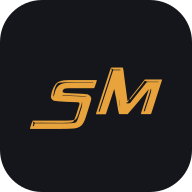
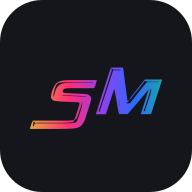
StageMate v0.6.14 · Build 93
Claude-Session: https://claude.ai/code/session_01G3z7oRcgy9Gda5m4Ku4fjU

Changed region(s): [[0.1875, 0.3438, 0.8438, 0.6875]]

diff --git a/index.html b/index.html
@@ -1,18 +1,18 @@
 <!DOCTYPE html>
-<!-- StageMate v0.6.13 · Build 92 · 2026-11-27 -->
+<!-- StageMate v0.6.14 · Build 93 · 2026-11-27 -->
 <html lang="de">
 <head>
 <meta charset="UTF-8">
 <meta name="viewport" content="width=device-width, initial-scale=1">
-<title>StageMate v0.6.13</title>
-<link rel="icon" type="image/svg+xml" href="icon.svg?sm2">
-<link rel="icon" type="image/png" sizes="32x32" href="icon-32.png?sm2">
-<link rel="apple-touch-icon" href="icon-180.png?sm2">
+<title>StageMate v0.6.14</title>
+<link rel="icon" type="image/svg+xml" href="icon.svg?sm3">
+<link rel="icon" type="image/png" sizes="32x32" href="icon-32.png?sm3">
+<link rel="apple-touch-icon" href="icon-180.png?sm3">
 <link rel="manifest" href="manifest.webmanifest">
 <meta name="theme-color" content="#15161c">
 <link rel="preconnect" href="https://fonts.googleapis.com">
 <link href="https://fonts.googleapis.com/css2?family=Inter:wght@400;500;600;700&display=swap" rel="stylesheet">
-<link rel="stylesheet" href="app.css?v0.6.13">
+<link rel="stylesheet" href="app.css?v0.6.14">
 <script>
   (function () {
     var t = 'system';
@@ -26,8 +26,9 @@
 
 <template id="logoTpl">
   <svg viewBox="0 0 512 512" aria-label="StageMate-Logo (SM)">
-    <rect width="512" height="512" rx="128" fill="#e8a33d"/>
-    <path fill="#15161c" transform="translate(-28.921,-314.354) scale(9.17031)" d="M 31.1846 57.5554 Q 31.2466 57.5554 31.3138 57.7311 Q 30.6472 59.8344 30.5697 59.8344 Q 30.4250 59.9222 30.3061 59.9222 L 23.6399 59.9222 Q 21.6245 59.9222 21.6245 60.3201 Q 21.3610 60.5113 21.3610 60.8885 Q 21.3610 61.3691 22.9371 61.3691 Q 28.8127 61.5603 28.8127 61.8084 Q 29.6912 62.2476 29.6912 63.0796 Q 29.6912 63.4259 28.2029 68.0354 Q 27.6345 69.9939 26.7973 70.8001 Q 25.8155 71.6786 23.9913 71.6786 Q 22.8441 71.7664 20.7460 71.7664 L 11.9953 71.7664 Q 11.9333 71.7664 11.8661 71.5907 Q 12.5224 69.5030 12.6568 69.3945 L 12.8738 69.3531 L 22.1930 69.3531 Q 24.7354 69.3531 24.7354 69.0017 Q 24.9628 69.0017 26.2702 64.5731 L 26.2702 64.3974 Q 26.2702 64.0046 25.5674 64.0046 Q 18.5963 63.7979 18.5963 63.4310 Q 17.9814 63.0745 17.9814 62.3820 L 17.9814 62.2941 Q 18.2036 60.2943 19.2991 58.7853 Q 20.2034 57.5554 23.3350 57.5554 Z  M 18.6841 61.8084 L 18.6841 62.1598 L 18.7307 62.3820 L 18.7720 62.3820 Q 19.2268 60.4545 19.6040 59.9222 Q 20.4825 58.3874 22.8079 58.3874 Q 23.3712 58.3461 24.6941 58.3461 L 30.1770 58.3461 Q 30.2596 58.3461 30.2596 58.2582 L 30.2596 58.2117 L 22.8079 58.2117 Q 20.1569 58.2117 19.8675 58.5631 Q 19.0976 59.3124 18.6841 61.8084 Z  M 21.2731 61.8962 L 21.2731 61.9841 Q 21.2731 62.1598 27.1022 62.3355 Q 27.1022 62.3613 28.2908 62.4698 Q 28.2908 62.1908 24.9111 62.1184 Q 21.9811 62.0151 21.2731 61.8962 Z  M 26.9317 64.0460 L 26.9317 64.3560 Q 26.9317 64.6402 26.3167 66.2836 Q 25.5674 69.0896 24.9111 69.0896 Q 24.7871 69.1361 24.3427 69.7459 Q 23.7226 70.0094 21.1388 70.0094 Q 15.4990 69.9681 14.2329 69.9681 Q 13.6231 70.0094 13.4474 70.0094 Q 13.3699 70.0094 12.8325 69.6580 L 12.7446 69.6580 Q 12.7446 69.7407 12.8738 70.2316 Q 12.6981 70.7380 12.6981 70.9758 Q 12.7446 70.9758 12.7446 71.0171 Q 13.0547 71.0171 13.1374 70.4487 Q 13.1374 70.1438 13.5301 70.1438 L 22.4100 70.1438 Q 25.3969 70.1438 25.3969 69.6580 Q 25.7690 69.2653 26.7095 66.0613 Q 27.0609 65.2345 27.0609 64.4387 L 27.0195 64.0460 Z  M 35.5410 53.9174 L 38.8276 53.9174 Q 39.0188 53.9174 39.3547 57.0748 Q 39.3547 57.1575 40.2332 63.6532 L 40.2745 63.6532 Q 40.5380 63.4104 40.5380 63.3018 L 40.6259 63.3018 L 40.6259 63.3432 Q 40.3934 64.0925 40.0575 64.0925 L 39.8353 64.1338 L 39.8353 64.2682 Q 40.1195 64.3560 40.2332 64.3560 L 40.3210 64.3560 Q 41.0807 64.3560 41.2822 63.8703 Q 45.3956 58.6665 45.7987 58.2117 Q 46.0364 58.1704 46.1966 58.1704 L 49.1783 58.1704 Q 49.2662 58.1704 49.2662 58.0825 L 49.2662 58.0412 L 46.2844 58.0412 Q 45.8814 58.0412 45.2768 57.7776 L 45.2303 57.7776 Q 44.8478 58.3823 43.8247 59.6587 L 40.9773 63.2140 L 40.9308 63.2140 Q 40.8223 63.2140 40.8016 63.0383 Q 40.9049 62.8471 45.2303 57.4262 L 45.4938 57.3797 L 50.1395 57.3797 Q 50.2067 57.3797 50.2739 57.5141 Q 50.2739 57.6484 47.1164 67.3377 Q 46.9562 67.4669 46.8115 67.4669 L 44.2639 67.4669 Q 44.2019 67.4669 44.1347 67.2912 Q 44.5740 66.0200 46.4136 60.2736 L 46.3723 60.2736 Q 41.3287 66.3249 40.2745 67.4669 L 37.8612 67.4669 Q 37.6080 67.4669 36.9414 62.9039 Q 36.8845 62.8936 36.4143 60.2736 L 36.3264 60.2736 Q 34.3111 66.5006 33.9597 67.4256 L 33.8305 67.5134 L 31.1536 67.5134 Q 31.0658 67.5134 31.0658 67.4256 L 31.0658 67.3377 Q 31.0658 67.2086 34.9673 55.2300 Q 35.3342 53.9174 35.5410 53.9174 Z  M 35.5410 54.1810 L 35.5410 54.2223 Q 35.5410 54.3515 35.6701 54.7959 L 31.8099 66.7228 Q 31.8978 66.7641 31.9443 66.7641 Q 32.2492 66.7641 32.2492 66.3249 L 36.0629 54.7081 L 38.2126 54.7081 L 38.2126 54.5737 L 37.9956 54.5324 L 36.1094 54.5324 L 35.6288 54.1810 Z  M 47.0286 60.0566 Q 47.0286 60.2426 45.2768 65.5394 L 44.9254 66.6763 L 45.0546 66.6763 Q 45.3336 66.6763 45.4060 66.1492 Q 47.1164 61.0539 47.1164 60.6715 L 47.1164 60.2736 L 47.0699 60.0566 Z  M 37.7734 63.3018 L 37.7734 63.3897 Q 38.0369 65.0072 38.0369 65.1880 L 38.0834 65.1880 L 38.0834 65.0537 Q 37.8199 63.4414 37.8199 63.3018 Z "/>
+    <defs><linearGradient id="smgLogo" x1="0" y1="0" x2="1" y2="0"><stop offset="0" stop-color="#e8a33d"/><stop offset=".3" stop-color="#ff2d78"/><stop offset=".55" stop-color="#9040f0"/><stop offset=".8" stop-color="#2a6bff"/><stop offset="1" stop-color="#1ba3a8"/></linearGradient></defs>
+    <rect width="512" height="512" rx="128" fill="#15161c"/>
+    <path fill="url(#smgLogo)" transform="translate(-28.921,-314.354) scale(9.17031)" d="M 31.1846 57.5554 Q 31.2466 57.5554 31.3138 57.7311 Q 30.6472 59.8344 30.5697 59.8344 Q 30.4250 59.9222 30.3061 59.9222 L 23.6399 59.9222 Q 21.6245 59.9222 21.6245 60.3201 Q 21.3610 60.5113 21.3610 60.8885 Q 21.3610 61.3691 22.9371 61.3691 Q 28.8127 61.5603 28.8127 61.8084 Q 29.6912 62.2476 29.6912 63.0796 Q 29.6912 63.4259 28.2029 68.0354 Q 27.6345 69.9939 26.7973 70.8001 Q 25.8155 71.6786 23.9913 71.6786 Q 22.8441 71.7664 20.7460 71.7664 L 11.9953 71.7664 Q 11.9333 71.7664 11.8661 71.5907 Q 12.5224 69.5030 12.6568 69.3945 L 12.8738 69.3531 L 22.1930 69.3531 Q 24.7354 69.3531 24.7354 69.0017 Q 24.9628 69.0017 26.2702 64.5731 L 26.2702 64.3974 Q 26.2702 64.0046 25.5674 64.0046 Q 18.5963 63.7979 18.5963 63.4310 Q 17.9814 63.0745 17.9814 62.3820 L 17.9814 62.2941 Q 18.2036 60.2943 19.2991 58.7853 Q 20.2034 57.5554 23.3350 57.5554 Z  M 18.6841 61.8084 L 18.6841 62.1598 L 18.7307 62.3820 L 18.7720 62.3820 Q 19.2268 60.4545 19.6040 59.9222 Q 20.4825 58.3874 22.8079 58.3874 Q 23.3712 58.3461 24.6941 58.3461 L 30.1770 58.3461 Q 30.2596 58.3461 30.2596 58.2582 L 30.2596 58.2117 L 22.8079 58.2117 Q 20.1569 58.2117 19.8675 58.5631 Q 19.0976 59.3124 18.6841 61.8084 Z  M 21.2731 61.8962 L 21.2731 61.9841 Q 21.2731 62.1598 27.1022 62.3355 Q 27.1022 62.3613 28.2908 62.4698 Q 28.2908 62.1908 24.9111 62.1184 Q 21.9811 62.0151 21.2731 61.8962 Z  M 26.9317 64.0460 L 26.9317 64.3560 Q 26.9317 64.6402 26.3167 66.2836 Q 25.5674 69.0896 24.9111 69.0896 Q 24.7871 69.1361 24.3427 69.7459 Q 23.7226 70.0094 21.1388 70.0094 Q 15.4990 69.9681 14.2329 69.9681 Q 13.6231 70.0094 13.4474 70.0094 Q 13.3699 70.0094 12.8325 69.6580 L 12.7446 69.6580 Q 12.7446 69.7407 12.8738 70.2316 Q 12.6981 70.7380 12.6981 70.9758 Q 12.7446 70.9758 12.7446 71.0171 Q 13.0547 71.0171 13.1374 70.4487 Q 13.1374 70.1438 13.5301 70.1438 L 22.4100 70.1438 Q 25.3969 70.1438 25.3969 69.6580 Q 25.7690 69.2653 26.7095 66.0613 Q 27.0609 65.2345 27.0609 64.4387 L 27.0195 64.0460 Z  M 35.5410 53.9174 L 38.8276 53.9174 Q 39.0188 53.9174 39.3547 57.0748 Q 39.3547 57.1575 40.2332 63.6532 L 40.2745 63.6532 Q 40.5380 63.4104 40.5380 63.3018 L 40.6259 63.3018 L 40.6259 63.3432 Q 40.3934 64.0925 40.0575 64.0925 L 39.8353 64.1338 L 39.8353 64.2682 Q 40.1195 64.3560 40.2332 64.3560 L 40.3210 64.3560 Q 41.0807 64.3560 41.2822 63.8703 Q 45.3956 58.6665 45.7987 58.2117 Q 46.0364 58.1704 46.1966 58.1704 L 49.1783 58.1704 Q 49.2662 58.1704 49.2662 58.0825 L 49.2662 58.0412 L 46.2844 58.0412 Q 45.8814 58.0412 45.2768 57.7776 L 45.2303 57.7776 Q 44.8478 58.3823 43.8247 59.6587 L 40.9773 63.2140 L 40.9308 63.2140 Q 40.8223 63.2140 40.8016 63.0383 Q 40.9049 62.8471 45.2303 57.4262 L 45.4938 57.3797 L 50.1395 57.3797 Q 50.2067 57.3797 50.2739 57.5141 Q 50.2739 57.6484 47.1164 67.3377 Q 46.9562 67.4669 46.8115 67.4669 L 44.2639 67.4669 Q 44.2019 67.4669 44.1347 67.2912 Q 44.5740 66.0200 46.4136 60.2736 L 46.3723 60.2736 Q 41.3287 66.3249 40.2745 67.4669 L 37.8612 67.4669 Q 37.6080 67.4669 36.9414 62.9039 Q 36.8845 62.8936 36.4143 60.2736 L 36.3264 60.2736 Q 34.3111 66.5006 33.9597 67.4256 L 33.8305 67.5134 L 31.1536 67.5134 Q 31.0658 67.5134 31.0658 67.4256 L 31.0658 67.3377 Q 31.0658 67.2086 34.9673 55.2300 Q 35.3342 53.9174 35.5410 53.9174 Z  M 35.5410 54.1810 L 35.5410 54.2223 Q 35.5410 54.3515 35.6701 54.7959 L 31.8099 66.7228 Q 31.8978 66.7641 31.9443 66.7641 Q 32.2492 66.7641 32.2492 66.3249 L 36.0629 54.7081 L 38.2126 54.7081 L 38.2126 54.5737 L 37.9956 54.5324 L 36.1094 54.5324 L 35.6288 54.1810 Z  M 47.0286 60.0566 Q 47.0286 60.2426 45.2768 65.5394 L 44.9254 66.6763 L 45.0546 66.6763 Q 45.3336 66.6763 45.4060 66.1492 Q 47.1164 61.0539 47.1164 60.6715 L 47.1164 60.2736 L 47.0699 60.0566 Z  M 37.7734 63.3018 L 37.7734 63.3897 Q 38.0369 65.0072 38.0369 65.1880 L 38.0834 65.1880 L 38.0834 65.0537 Q 37.8199 63.4414 37.8199 63.3018 Z "/>
   </svg>
 </template>
 
@@ -1234,16 +1235,16 @@
   <div class="dev-body" id="devBody"></div>
 </div>
 <div class="housi-mark" aria-hidden="true" title="Housi"><svg xmlns="http://www.w3.org/2000/svg" viewBox="0 0 2000 1484" fill="currentColor"><path transform="translate(-110.1,-235.1)" d="m 1033.6,1718.2 c -7.3,-0.8 -17.9,-3.6 -23.3,-6.2 -14.5,-6.8 -26.8,-24.0 -27.0,-37.9 -0.0,-4.1 0.2,-5.4 1.8,-8.4 1.0,-1.9 2.7,-4.3 3.8,-5.3 3.3,-3.1 10.1,-6.7 16.8,-8.8 7.9,-2.4 42.5,-8.3 49.2,-8.3 8.4,0.0 23.9,3.1 23.9,4.9 0,0.8 -0.4,0.9 -20.5,4.1 -9.5,1.5 -19.7,3.4 -22.6,4.2 -14.6,4.0 -23.0,11.8 -23.0,21.4 0,6.9 5.6,18.6 12.6,26.1 6.4,6.8 8.7,8.2 12.5,7.6 9.2,-1.5 22.8,-7.6 32.8,-14.8 23.8,-17.1 41.0,-52.6 44.4,-91.6 2.1,-25.1 -4.4,-50.5 -22.4,-86.3 l -2.7,-5.5 -27.6,27.8 c -27.5,27.7 -37.9,37.3 -54.5,50.5 -15.5,12.4 -23.1,16.4 -37.2,19.8 -7.2,1.7 -8.6,1.8 -25.7,1.8 -14.7,0.0 -19.2,-0.2 -24.0,-1.2 -17.7,-3.7 -37.1,-12.6 -54.7,-25.1 -29.2,-20.7 -51.8,-59.3 -49.5,-84.3 1.1,-12.6 5.4,-21.5 14.6,-30.8 5.4,-5.4 7.2,-6.7 13.6,-9.9 14.0,-6.9 28.9,-9.5 55.0,-9.5 19.0,-0.0 27.5,0.7 39.8,3.4 8.0,1.7 12.6,3.7 13.8,5.8 1.4,2.7 0.8,4.8 -2.5,8.1 -2.5,2.4 -6.9,4.9 -20.0,11.4 -9.2,4.5 -17.9,8.4 -19.3,8.6 -3.4,0.6 -22.9,0.6 -24.4,0.0 -0.6,-0.2 -1.2,-0.6 -1.2,-0.9 0,-0.2 7.2,-4.0 16.1,-8.4 17.3,-8.5 22.4,-12.1 22.0,-15.3 -0.9,-6.7 -29.5,-10.1 -44.1,-5.2 -22.4,7.6 -36.0,28.6 -33.1,51.3 2.0,16.2 11.5,35.1 26.4,52.9 6.6,7.8 11.4,12.4 19.9,18.7 15.8,11.7 36.1,21.7 50.3,24.6 3.9,0.8 5.0,0.8 8.1,-0.1 4.2,-1.2 10.6,-4.4 15.0,-7.3 5.6,-3.7 22.4,-17.5 32.7,-26.7 9.9,-8.8 50.1,-49.2 69.2,-69.4 8.7,-9.2 9.6,-10.4 8.9,-11.8 -0.8,-1.7 -11.7,-17.1 -14.6,-20.6 l -1.9,-2.3 -2.6,4.4 c -14.9,24.8 -35.5,38.9 -63.4,43.4 -7.0,1.1 -39.6,3.9 -45.8,3.9 -5.6,0 -22.2,-6.4 -25.2,-9.7 -1.1,-1.2 -1.0,-1.3 0.4,-1.6 0.9,-0.1 10.2,-1.0 20.7,-1.8 21.7,-1.6 27.9,-2.5 37.5,-5.6 17.2,-5.5 32.9,-17.1 43.1,-31.9 3.2,-4.7 14.8,-24.0 14.8,-24.7 0,-1.6 -75.4,-80.2 -88.1,-91.9 -5.9,-5.4 -5.9,-5.4 -7.7,-4.3 -0.9,0.6 -5.9,4.1 -10.9,7.8 -11.8,8.6 -40.4,27.8 -50.4,33.7 -11.8,7.1 -43.4,23.9 -60.1,32.0 -17.9,8.6 -35.5,15.9 -50.5,20.9 -49.2,16.2 -66.3,19.8 -101.5,21.5 -33.1,1.6 -67.4,-1.3 -93.4,-8.1 -44.0,-11.4 -96.6,-39.7 -119.9,-64.5 -10.1,-10.8 -15.6,-18.7 -22.2,-32.6 -10.3,-21.5 -13.6,-39.2 -12.7,-68.2 0.6,-23.1 3.5,-37.8 10.9,-56.5 11.6,-29.1 26.0,-45.9 50.4,-58.4 16.9,-8.6 38.9,-15.0 61.9,-17.7 27.5,-3.3 74.9,-3.3 116.2,0.0 46.8,3.8 108.9,17.5 155.0,34.2 61.0,22.1 104.7,45.2 155.4,82.3 7.4,5.4 13.5,9.4 13.9,9.1 0.3,-0.2 10.7,-8.3 23.1,-17.9 l 22.4,-17.3 -21.3,-16.0 c -25.3,-19.0 -38.8,-28.5 -65.9,-46.5 -42.2,-27.9 -59.2,-37.4 -78.7,-43.9 -15.1,-5.0 -39.1,-8.2 -42.5,-5.6 -1.3,1.0 -1.3,1.0 0.0,3.0 2.2,3.0 6.8,6.2 23.2,16.1 8.3,5.0 15.7,9.8 16.4,10.5 1.2,1.3 1.1,1.3 -1.7,1.3 -3.2,0 -13.4,-3.1 -18.8,-5.9 -5.9,-3.0 -33.6,-19.8 -38.4,-23.4 -10.6,-7.8 -12.4,-12.8 -4.9,-14.2 6.5,-1.2 26.5,1.1 42.5,4.9 25.3,6.0 60.0,20.9 87.3,37.4 25.8,15.6 69.6,45.1 96.0,64.8 8.1,6.0 14.9,11.0 15.1,11.0 0.1,0 6.3,-4.6 13.7,-10.2 13.2,-10.1 42.4,-31.7 71.7,-53.3 l 15.1,-11.0 1.1,-5.1 c 0.6,-2.8 0.9,-5.7 0.7,-6.4 -0.7,-2.3 -7.4,-8.4 -12.5,-11.4 -12.9,-7.5 -30.2,-14.0 -46.2,-17.1 -15.0,-2.9 -24.0,-3.7 -38.6,-3.3 -24.4,0.7 -51.1,7.2 -57.5,13.9 l -1.5,1.6 2.1,3.6 c 3.1,5.3 4.0,7.8 5.6,15.4 1.5,7.6 1.8,17.6 0.5,17.2 -0.4,-0.1 -3.4,-4.8 -6.5,-10.3 -8.3,-14.5 -11.4,-25.4 -11.6,-40.3 -0.0,-7.6 -4.3e-4,-8.1 1.9,-11.6 3.9,-7.1 12.1,-11.2 30.3,-15.0 14.7,-3.1 25.3,-4.1 41.0,-3.7 26.0,0.6 46.7,5.7 69.1,16.8 14.2,7.1 19.1,11.5 23.9,21.4 2.9,6.2 6.0,17.0 7.0,24.6 0.2,2.0 0.6,3.6 0.7,3.6 0.1,0 2.5,-1.3 5.3,-2.9 13.2,-7.7 43.5,-20.7 58.0,-24.9 15.1,-4.3 22.0,-5.2 39.3,-5.2 11.8,0 17.5,0.3 23.3,1.2 15.1,2.5 43.3,8.7 49.1,10.8 6.5,2.4 14.0,6.3 14.4,7.5 0.5,1.5 -4.3,0.8 -22.9,-2.9 -23.4,-4.8 -30.0,-5.5 -44.4,-5.0 -20.1,0.7 -35.2,4.7 -63.7,17.2 -18.8,8.2 -33.2,16.4 -49.7,28.4 -5.5,4.0 -10.3,7.5 -10.6,7.7 -0.7,0.6 -5.2,15.6 -6.7,22.7 -0.7,3.4 -1.6,9.4 -2.1,13.3 l -0.7,7.0 3.1,7.6 c 4.3,10.3 6.0,17.2 6.4,26.3 0.2,6.2 0.1,7.5 -0.6,7.2 -1.2,-0.4 -9.0,-18.6 -11.3,-26.5 -3.0,-10.4 -4.0,-17.7 -4.5,-31.7 l -0.4,-13.4 -8.7,6.4 c -38.9,28.8 -60.2,45.0 -60.5,46.1 -0.1,0.3 16.9,13.5 37.9,29.4 l 38.1,28.7 6.6,-6.0 c 25.1,-22.9 48.5,-41.6 82.6,-65.9 49.9,-35.7 90.1,-57.4 142.0,-76.9 45.7,-17.1 82.2,-26.0 125.2,-30.4 20.5,-2.1 54.1,-1.5 87.8,1.5 72.2,6.6 117.9,22.6 175.2,61.4 46.4,31.4 61.3,49.9 66.3,82.3 2.0,12.9 1.2,29.5 -2.2,48.8 -2.9,16.1 -9.3,32.0 -18.5,45.8 -12.9,19.2 -39.2,44.0 -64.2,60.3 -38.8,25.4 -84.1,39.4 -159.3,49.5 -29.2,3.8 -34.1,4.2 -64.8,4.2 -30.0,0.0 -34.9,-0.2 -63.7,-3.8 -25.6,-3.1 -46.8,-7.9 -70.7,-15.9 -24.8,-8.3 -42.8,-16.0 -71.4,-30.6 -31.7,-16.2 -49.5,-26.6 -78.6,-45.8 l -17.3,-11.4 -1.7,1.6 c -0.9,0.8 -7.2,7.7 -14.0,15.1 -6.7,7.4 -18.4,19.9 -26.0,27.6 l -13.7,14.0 3.4,5.5 c 10.3,16.7 21.2,44.0 24.1,60.6 1.3,7.6 1.3,17.5 -0.0,23.9 -0.5,2.7 -2.7,8.9 -4.7,13.8 -3.5,8.3 -3.8,8.8 -5.8,9.0 -3.9,0.4 -22.6,-6.9 -25.1,-9.8 -0.6,-0.7 -0.0,-2.8 2.9,-9.8 2.0,-4.8 4.3,-11.3 4.9,-14.5 2.7,-13.6 -0.7,-31.8 -10.8,-56.1 -1.6,-3.9 -3.2,-7.1 -3.4,-7.1 -0.4,0 -23.2,23.4 -33.2,34.2 l -2.3,2.5 5.7,10.0 c 11.0,19.2 22.7,44.9 26.7,58.7 3.6,12.7 4.6,19.0 5.0,32.4 0.5,17.1 -1.1,29.5 -6.1,45.6 -6.7,21.9 -15.7,37.8 -28.8,50.9 -13.6,13.7 -28.9,21.7 -47.5,25.0 -6.4,1.1 -20.1,1.2 -28.7,0.2 z m 485.8,-238.3 c 27.9,-2.1 73.1,-8.9 99.0,-14.9 48.4,-11.2 84.6,-28.4 117.0,-55.4 16.0,-13.3 29.7,-27.5 38.9,-40.3 5.0,-7.0 13.2,-23.0 15.7,-31.1 5.5,-17.3 8.7,-46.0 6.7,-61.1 -4.6,-34.6 -18.7,-52.6 -65.9,-83.8 -33.9,-22.4 -49.3,-29.2 -81.5,-35.8 -29.4,-6.0 -86.5,-10.2 -115.2,-8.4 -50.4,3.1 -100.6,15.6 -158.0,39.3 -48.9,20.2 -91.4,45.5 -146.7,87.5 -27.8,21.0 -70.0,57.2 -68.5,58.6 0.3,0.2 9.9,7.4 21.3,15.9 18.3,13.6 20.9,15.3 21.9,14.4 23.8,-20.3 38.8,-32.7 65.9,-54.2 71.5,-56.9 110.3,-80.3 171.4,-103.2 29.8,-11.2 51.0,-15.3 78.7,-15.4 25.1,-0.0 43.8,3.7 64.0,13.1 29.3,13.6 47.8,31.2 58.4,55.6 6.7,15.5 10.9,30.2 11.7,40.9 1.6,23.3 -4.0,37.8 -22.2,55.8 -28.7,28.6 -57.7,42.6 -99.2,47.7 -18.6,2.2 -68.6,3.9 -72.7,2.4 -5.4,-2.0 4.9,-3.8 28.9,-4.8 10.1,-0.4 21.9,-1.0 26.1,-1.4 32.1,-2.9 62.3,-18.3 88.7,-45.5 7.8,-8.0 11.4,-12.9 15.2,-20.6 4.1,-8.3 4.7,-12.1 4.7,-26.4 -0.0,-14.5 -0.7,-18.0 -7.0,-35.3 -6.4,-17.9 -13.4,-29.3 -24.6,-40.6 -17.9,-18.0 -50.2,-33.6 -73.1,-35.2 -14.6,-1.0 -38.1,5.6 -75.6,21.5 -46.3,19.6 -83.1,43.3 -148.1,95.2 -36.2,28.9 -75.2,61.9 -75.2,63.5 0,1.4 40.7,28.8 60.6,40.8 34.1,20.5 71.5,38.8 95.4,46.7 21.3,7.0 47.9,11.7 83.6,14.7 9.7,0.8 48.3,0.8 59.2,0.0 z m -83.2,-98.3 c -10.8,-1.6 -20.9,-6.2 -30.1,-13.6 -14.6,-11.7 -21.9,-25.6 -19.7,-37.9 2.5,-14.5 14.9,-24.7 38.4,-31.5 12.2,-3.5 18.6,-4.2 35.8,-4.2 14.0,0.0 16.8,0.2 22.6,1.5 14.2,3.3 24.0,10.1 28.8,20.3 7.4,15.6 3.3,22.7 -15.2,25.9 -5.4,0.9 -43.5,0.9 -49.4,0.0 -6.3,-1.0 -4.3,-2.7 4.8,-4.0 1.9,-0.2 9.0,-0.4 15.8,-0.3 7.5,0.0 12.9,-0.1 13.7,-0.6 4.4,-2.3 4.6,-10.6 0.4,-19.0 -4.5,-9.2 -13.2,-16.0 -23.0,-18.0 -3.3,-0.6 -4.5,-0.6 -9.6,0.7 -13.7,3.6 -25.9,11.7 -30.3,20.1 -6.9,13.1 -3.0,26.9 11.8,41.0 7.8,7.4 15.2,12.0 23.2,14.4 3.3,1.0 3.9,0.9 13.5,-1.0 8.4,-1.7 11.7,-2.1 20.5,-2.1 10.3,-0.0 14.2,0.3 14.2,1.6 0,0.8 -3.2,1.7 -17.7,4.6 -11.1,2.2 -12.7,2.4 -28.2,2.6 -9.0,0.1 -18.2,-0.0 -20.5,-0.4 z m -318.5,72.0 15.2,-15.5 -4.6,-6.8 c -7.6,-11.2 -24.5,-31.4 -26.2,-31.4 -0.4,0 -10.4,16.5 -17.4,28.9 -3.3,5.9 -10.1,17.6 -11.2,19.5 l -1.2,2.1 7.0,8.0 c 3.8,4.4 8.9,10.4 11.2,13.4 l 4.2,5.4 3.9,-4.0 c 2.1,-2.2 10.7,-11.0 19.1,-19.5 z m -465.9,-0.1 c 27.5,-1.6 43.9,-5.1 83.6,-17.8 29.6,-9.4 49.9,-18.2 84.8,-36.5 38.4,-20.2 53.2,-29.4 92.0,-57.6 11.8,-8.6 14.6,-10.9 13.9,-11.6 -15.3,-13.9 -49.3,-37.5 -75.9,-52.6 -50.1,-28.5 -90.9,-44.7 -130.9,-51.9 -29.6,-5.3 -69.7,-1.0 -92.3,9.8 -12.9,6.2 -26.2,17.9 -34.3,30.2 -7.6,11.6 -9.5,18.5 -9.5,34.2 0.0,10.9 0.1,11.7 2.2,17.9 3.9,11.8 12.8,24.6 25.7,37.0 11.0,10.6 20.1,16.9 32.4,22.3 l 5.1,2.2 5.5,-1.1 c 10.9,-2.2 24.7,-11.0 28.3,-17.9 1.6,-3.2 1.8,-9.1 0.3,-12.6 -1.3,-3.3 -7.0,-10.6 -9.5,-12.5 l -2.1,-1.5 -6.4,1.8 c -7.0,2.0 -11.8,2.2 -20.3,1.1 -6.1,-0.8 -14.2,-3.1 -14.2,-4.1 0,-0.6 10.5,-4.1 18.1,-5.8 11.7,-2.7 33.4,0.0 45.8,5.9 9.9,4.7 18.5,14.8 19.4,22.8 0.5,4.7 -0.1,7.6 -2.6,11.4 -3.8,5.8 -15.4,13.1 -25.8,16.3 -14.6,4.5 -39.2,3.1 -58.6,-3.3 -18.4,-6.1 -33.8,-16.3 -49.0,-32.2 -11.6,-12.2 -18.7,-23.3 -22.3,-34.9 -1.7,-5.7 -1.9,-7.2 -1.9,-17.4 0.0,-10.1 0.1,-11.7 1.9,-17.4 3.4,-11.2 8.3,-19.2 18.1,-29.5 19.0,-19.9 44.4,-28.9 88.4,-31.4 42.8,-2.4 95.3,7.5 145.8,27.5 39.3,15.6 86.4,41.9 123.6,69.2 l 9.4,6.8 2.7,-1.9 c 1.5,-1.0 5.9,-4.4 9.7,-7.4 3.8,-2.9 10.8,-8.3 15.5,-11.9 4.6,-3.6 8.5,-6.7 8.5,-7.0 0,-0.6 -34.6,-26.4 -45.3,-33.8 -62.2,-43.0 -125.9,-68.2 -206.5,-81.8 -36.0,-6.0 -52.5,-7.2 -100.1,-7.2 -30.3,-0.0 -38.4,0.1 -47.7,1.2 -31.1,3.4 -58.4,12.1 -77.4,24.8 -16.8,11.2 -26.4,23.5 -37.4,48.3 -4.3,9.7 -9.3,28.2 -10.5,39.1 -0.2,1.9 -0.5,4.2 -0.6,5.2 -0.1,0.9 -0.4,7.3 -0.7,14.2 -0.6,19.5 1.3,36.8 5.8,50.4 6.4,19.5 15.2,34.6 28.0,48.3 6.5,6.9 14.0,12.9 26.1,21.0 27.6,18.3 47.1,25.8 77.7,29.9 17.0,2.3 42.5,3.0 63.4,1.7 z m 409.5,-43.3 c 5.3,-9.2 11.9,-20.1 14.5,-24.1 l 4.8,-7.2 -5.5,-5.2 c -10.0,-9.4 -72.0,-62.0 -76.0,-64.4 -0.4,-0.2 -5.2,2.9 -11.8,8.0 -6.0,4.7 -14.3,11.0 -18.4,14.1 -4.1,3.0 -7.4,5.7 -7.4,5.9 -0.0,0.2 3.4,3.4 7.8,7.2 8.7,7.7 42.1,41.1 66.0,66.1 8.6,9.0 15.8,16.4 16.0,16.4 0.1,0.0 4.7,-7.5 10.1,-16.8 z m 109.4,-12.0 c 5.8,-6.5 13.9,-15.0 18.0,-18.8 l 7.4,-6.9 -12.0,-8.7 c -6.6,-4.8 -16.2,-11.8 -21.4,-15.7 l -9.4,-6.9 -6.5,6.4 c -10.0,9.8 -23.0,24.0 -30.3,33.0 l -6.6,8.1 14.7,15.0 c 8.1,8.2 16.0,16.7 17.5,18.7 l 2.7,3.6 7.5,-7.8 c 4.1,-4.3 12.3,-13.2 18.2,-19.7 z m -71.1,-41.7 c 3.4,-3.8 11.9,-12.6 18.9,-19.5 l 12.7,-12.5 -38.4,-28.8 c -21.1,-15.8 -38.7,-28.8 -39.2,-28.8 -0.4,-0.0 -4.7,2.9 -9.4,6.5 -19.6,15.1 -34.5,26.6 -35.6,27.7 -1.1,1.0 -0.7,1.5 6.2,7.0 12.5,9.9 41.5,33.9 57.9,47.9 l 15.6,13.3 2.4,-2.9 c 1.3,-1.6 5.2,-6.0 8.6,-9.9 z m 159.0,253.2 c -14.2,-1.8 -32.3,-7.3 -44.3,-13.5 -8.6,-4.4 -14.8,-9.0 -26.0,-19.0 -6.9,-6.2 -7.9,-7.3 -6.9,-7.9 1.8,-1.0 13.8,-0.0 21.2,1.6 l 6.3,1.4 8.9,7.8 c 14.3,12.5 22.8,18.0 34.4,21.9 5.2,1.7 6.3,1.9 9.4,1.3 6.0,-1.1 11.0,-4.0 16.7,-9.7 13.2,-13.4 21.7,-34.5 24.4,-60.9 1.3,-12.9 -1.1,-26.2 -6.7,-35.8 -3.4,-5.8 -12.1,-14.9 -18.7,-19.5 -9.1,-6.3 -24.8,-12.5 -32.0,-12.7 -5.8,-0.1 -12.4,4.4 -15.2,10.6 -1.2,2.6 -1.4,4.4 -1.4,11.8 0,7.2 0.2,9.3 1.5,12.8 3.7,10.0 9.7,17.0 25.2,29.6 5.7,4.6 10.4,8.7 10.4,9.1 0,0.8 -11.8,0.7 -17.0,-0.0 -9.1,-1.5 -11.1,-2.4 -20.8,-10.2 -11.2,-9.0 -17.0,-14.6 -21.0,-20.0 -6.7,-9.3 -9.0,-16.9 -8.5,-27.3 0.4,-8.2 3.0,-14.1 8.0,-17.9 5.3,-4.0 9.1,-4.8 23.5,-4.8 13.7,0.0 22.3,1.2 38.2,5.2 33.8,8.5 55.2,25.2 62.5,48.7 1.4,4.6 1.6,6.5 1.6,17.7 -0.0,10.9 -0.2,13.6 -1.8,21.3 -2.4,11.4 -5.3,20.0 -9.2,27.9 -8.9,17.8 -19.1,27.2 -32.7,30.1 -5.3,1.1 -21.8,1.2 -29.8,0.2 z M 173.1,1266.2 c -13.7,-2.0 -25.2,-6.5 -37.8,-14.8 -13.8,-9.1 -19.9,-18.7 -23.8,-37.8 -2.0,-10.0 -1.6,-22.8 0.9,-30.8 7.1,-21.8 23.0,-39.5 46.5,-51.8 9.0,-4.7 21.2,-9.6 28.9,-11.5 5.7,-1.4 8.1,-1.6 21.6,-1.7 20.8,-0.0 20.3,-0.1 18.8,0.7 -0.7,0.4 -6.5,2.8 -12.9,5.4 -18.4,7.4 -26.6,11.9 -36.8,20.3 -8.7,7.1 -12.1,11.9 -15.5,21.9 -3.8,11.6 -4.2,21.8 -1.3,33.1 3.3,12.7 14.7,24.6 27.3,28.6 4.0,1.2 6.5,1.5 14.6,1.5 8.9,-0.0 10.4,-0.2 17.7,-2.2 9.5,-2.7 22.7,-9.0 29.6,-14.2 6.2,-4.7 17.3,-15.8 24.1,-24.2 12.2,-15.2 24.0,-36.0 30.8,-54.6 10.7,-29.2 19.0,-63.2 21.3,-87.1 0.8,-8.9 2.3,-81.0 1.6,-82.0 -0.2,-0.3 -1.1,1.6 -2.1,4.5 -3.0,9.6 -13.6,28.8 -22.6,40.9 -8.0,10.8 -20.8,22.9 -32.9,31.0 -10.4,7.0 -27.9,13.9 -39.3,15.5 -15.7,2.2 -36.4,-1.8 -52.3,-10.3 -17.5,-9.4 -33.0,-22.6 -41.0,-35.0 -9.9,-15.5 -17.4,-44.0 -17.5,-66.3 -0.0,-22.8 6.5,-53.0 15.8,-72.3 7.4,-15.4 17.1,-29.9 26.9,-40.3 10.1,-10.6 31.2,-27.1 44.6,-34.8 15.7,-9.0 44.1,-18.2 64.0,-20.6 12.1,-1.4 41.0,-2.7 48.6,-2.1 l 6.1,0.4 -0.3,-51.8 c -0.2,-38.2 -0.6,-55.7 -1.4,-66.8 -1.4,-18.7 -2.4,-53.3 -2.0,-67.6 0.2,-9.7 0.1,-11.1 -1.0,-13.9 -1.9,-4.4 -5.5,-8.3 -12.0,-13.2 -7.8,-5.9 -14.6,-9.8 -39.3,-22.5 -37.4,-19.2 -56.9,-30.3 -76.3,-43.2 -15.2,-10.1 -22.1,-15.5 -31.0,-24.5 -9.8,-9.7 -15.1,-16.5 -22.7,-29.2 -14.5,-23.9 -21.5,-44.3 -21.6,-63.5 -0.1,-14.5 2.4,-20.9 13.8,-33.3 9.4,-10.3 10.4,-10.6 6.3,-1.7 -3.1,6.8 -4.3,11.4 -5.2,19.5 -2.1,19.1 0.6,32.3 11.0,53.8 6.2,12.7 11.6,20.3 22.3,31.0 14.0,14.1 26.2,22.6 59.9,41.9 36.0,20.6 57.9,30.5 96.3,43.6 31.1,10.5 51.4,16.2 70.1,19.5 26.3,4.7 80.4,8.0 112.6,6.8 31.6,-1.1 81.7,-9.9 119.9,-21.1 18.9,-5.5 55.5,-18.3 71.7,-25.0 3.4,-1.4 7.8,-3.0 9.7,-3.5 4.6,-1.2 12.3,-1.2 17.3,0.0 5.4,1.4 16.6,6.0 16.9,7.0 0.1,0.4 -4.1,2.1 -11.1,4.4 -14.1,4.4 -24.7,8.2 -36.4,12.7 -16.9,6.5 -32.0,11.4 -74.4,24.2 -32.0,9.6 -41.6,12.0 -72.6,17.7 -32.9,6.0 -31.3,5.9 -77.6,6.3 -38.8,0.3 -54.8,-0.0 -66.7,-1.6 l -3.1,-0.4 0.3,76.9 c 0.3,68.8 0.9,98.3 2.2,116.0 l 0.4,5.6 12.6,4.5 c 19.5,6.9 41.8,13.2 65.2,18.3 11.5,2.4 27.0,3.1 31.7,1.3 3.5,-1.3 6.1,-4.1 7.4,-7.9 0.6,-1.9 0.9,-19.7 1.2,-69.8 l 0.4,-67.2 -1.6,-10.4 c -3.1,-20.0 -6.2,-26.3 -23.0,-45.7 -5.5,-6.4 -7.1,-9.1 -7.1,-12.4 0,-3.1 1.6,-3.4 5.5,-1.1 16.0,9.5 30.3,12.3 55.6,10.8 33.0,-1.9 46.7,-4.5 72.2,-14.1 22.0,-8.2 31.3,-10.2 36.9,-7.8 3.5,1.4 8.2,5.4 7.1,6.0 -0.4,0.2 -5.7,1.7 -11.5,3.3 -29.6,8.0 -37.6,13.7 -47.8,33.9 -6.2,12.3 -9.3,24.8 -11.5,45.9 -0.7,7.6 -1.7,16.2 -2.1,19.0 -0.8,6.2 -0.8,238.2 0.0,290.7 0.6,39.0 0.8,41.3 5.5,64.8 3.4,17.0 7.3,27.2 13.1,34.6 3.3,4.2 10.3,10.0 20.3,16.7 8.7,5.9 11.3,8.4 11.0,10.7 -0.2,1.4 -0.6,1.6 -4.0,1.8 -7.2,0.4 -22.6,-3.0 -36.9,-8.3 -16.4,-6.0 -18.6,-6.4 -43.5,-6.4 -27.7,-0.0 -40.5,1.6 -65.8,8.6 -12.9,3.5 -16.7,4.0 -19.2,2.4 -1.6,-1.1 -1.8,-1.5 -1.5,-4.6 0.4,-4.5 3.1,-7.3 12.9,-13.1 8.9,-5.3 14.3,-10.2 19.3,-17.7 6.8,-10.3 10.9,-20.4 13.6,-33.2 1.3,-6.5 1.5,-10.5 2.0,-46.2 0.3,-21.4 0.7,-59.5 0.9,-84.5 l 0.4,-45.5 -3.6,0.5 c -6.1,0.9 -24.6,0.4 -34.6,-0.7 -23.9,-3.0 -65.8,-13.1 -80.9,-19.5 -0.9,-0.4 -1.1,0.5 -1.5,6.7 -0.2,3.9 -0.7,47.4 -1.1,96.6 -0.6,94.7 -0.6,95.9 2.4,113.0 3.6,20.0 5.5,23.2 25.0,44.2 5.9,6.4 10.7,11.8 10.5,11.9 -0.1,0.1 -2.5,0.0 -5.2,-0.3 -11.0,-1.5 -31.0,3.3 -44.7,10.8 -2.4,1.3 -9.8,6.0 -16.3,10.5 -25.7,17.4 -32.6,23.3 -45.9,39.8 -33.0,40.9 -50.3,57.6 -76.1,73.3 -25.6,15.6 -42.2,21.2 -64.9,21.7 -5.9,0.1 -11.7,0.1 -12.9,-0.0 z m 65.6,-223.8 c 13.8,-4.7 28.5,-13.5 39.2,-23.5 18.2,-17.1 33.5,-43.8 37.0,-64.5 1.2,-7.2 0.5,-19.4 -1.3,-24.3 -3.0,-7.7 -11.9,-15.1 -22.3,-18.6 -14.3,-4.7 -37.4,2.0 -52.5,15.4 -7.0,6.2 -11.1,15.1 -11.9,25.9 -0.6,7.9 0.5,12.6 4.3,18.3 2.4,3.5 2.9,4.7 2.2,5.2 -0.5,0.3 -4.2,0.5 -8.2,0.4 -6.3,-0.1 -7.8,-0.4 -11.3,-2.1 -11.2,-5.5 -21.4,-25.8 -21.4,-42.8 0,-7.7 1.4,-13.5 5.5,-22.1 8.1,-16.8 19.4,-27.5 37.5,-35.4 18.2,-7.9 40.0,-8.7 57.5,-2.1 6.3,2.3 11.5,5.6 18.2,11.4 6.9,6.0 12.0,12.3 15.1,18.7 l 2.3,4.9 0.4,-30.0 c 0.2,-16.5 0.6,-36.5 0.9,-44.4 l 0.4,-14.3 -3.4,-0.4 c -7.4,-1.0 -28.7,-1.3 -36.5,-0.5 -14.5,1.4 -41.4,7.4 -57.0,12.6 -21.1,6.9 -46.0,23.4 -64.5,42.6 -8.0,8.3 -12.7,15.1 -18.0,25.9 -6.4,13.2 -8.8,22.1 -10.2,38.5 -0.9,10.8 -0.1,25.1 1.8,34.6 2.6,12.2 9.3,28.6 15.7,38.0 9.7,14.4 30.9,28.0 53.2,34.1 7.6,2.0 18.9,1.5 27.3,-1.3 z m 85.3,-218.0 c 0.1,-0.7 0.7,-1.2 1.2,-1.2 1.4,0 1.2,2.0 -0.2,2.3 -0.9,0.1 -1.2,-0.1 -1.0,-1.0 z m 74.2,-134.9 c -0.1,-0.8 -0.3,-0.3 -0.3,1.2 -0.0,1.5 0.1,2.2 0.3,1.5 0.1,-0.6 0.1,-1.9 0.0,-2.7 z M 1955.1,1224.8 c -30.3,-2.7 -49.8,-10.9 -85.0,-35.6 -13.7,-9.6 -24.3,-18.0 -38.4,-30.7 -31.1,-27.8 -50.8,-39.1 -75.4,-43.0 -2.6,-0.4 -6.5,-1.1 -8.6,-1.5 l -3.8,-0.7 11.9,-5.7 c 10.3,-5.0 12.6,-6.4 16.8,-10.4 8.0,-7.6 12.8,-15.8 15.4,-26.4 2.5,-10.2 2.9,-24.9 2.0,-75.2 -1.3,-80.0 -4.1,-231.4 -4.5,-245.0 -1.1,-36.1 -1.9,-60.7 -3.1,-92.3 -0.7,-19.1 -1.3,-42.6 -1.3,-52.1 v -17.3 l -27.3,0.6 c -58.0,1.2 -152.0,0.0 -172.6,-2.2 -22.7,-2.5 -83.4,-12.8 -108.9,-18.4 -14.6,-3.2 -32.7,-7.8 -74.6,-19.0 -53.1,-14.1 -59.2,-15.9 -92.0,-26.6 -19.6,-6.4 -45.4,-14.1 -64.8,-19.2 -9.1,-2.4 -8.7,-3.1 3.2,-6.9 13.5,-4.3 17.8,-5.3 25.9,-5.7 9.5,-0.5 16.9,0.8 31.6,6.0 31.5,11.1 83.4,26.7 115.6,34.8 41.7,10.4 94.5,19.7 137.4,24.3 31.8,3.3 49.4,4.2 86.6,4.2 65.0,-0.0 103.4,-3.3 154.4,-13.3 53.2,-10.4 93.9,-24.3 150.2,-51.4 33.4,-16.0 64.8,-34.8 83.6,-49.8 9.6,-7.7 22.0,-20.4 27.7,-28.2 4.9,-6.9 16.6,-29.5 21.0,-40.7 6.4,-16.3 9.7,-32.9 9.7,-49.0 0.0,-13.0 -0.5,-15.4 -6.0,-23.8 -1.6,-2.4 -3.2,-5.2 -3.7,-6.3 l -0.8,-1.8 1.8,1.1 c 7.8,4.9 17.2,11.9 20.2,15.1 7.6,8.1 10.7,18.3 10.7,35.2 -0.0,26.5 -8.5,52.2 -26.7,81.3 -13.8,22.0 -26.5,35.9 -46.6,50.8 -18.3,13.7 -22.6,16.3 -67.9,41.0 -62.2,33.9 -79.4,44.1 -87.5,51.7 -5.6,5.2 -7.1,8.1 -8.7,16.5 -1.4,7.1 -1.3,3.5 -0.2,136.9 0.3,43.1 0.6,86.8 0.6,97.2 v 18.8 l 9.2,2.7 c 14.5,4.2 57.3,18.7 69.7,23.6 25.9,10.1 46.3,20.9 69.0,36.1 34.8,23.3 55.5,47.5 65.8,76.8 8.2,23.3 7.8,40.6 -1.3,60.0 -4.2,9.0 -7.8,14.1 -13.3,19.5 -11.3,10.8 -28.4,18.7 -50.4,23.2 -23.5,4.8 -40.3,3.1 -58.6,-5.7 -18.1,-8.8 -27.5,-22.5 -30.1,-44.0 -3.5,-28.9 6.6,-53.8 25.7,-62.6 9.1,-4.2 18.7,-4.1 37.9,0.2 12.0,2.7 13.5,3.2 12.8,3.8 -0.1,0.1 -5.1,1.0 -10.9,2.0 -15.4,2.5 -21.8,6.1 -28.2,15.8 -4.1,6.2 -5.4,10.9 -5.7,20.7 -0.5,14.7 2.6,26.3 9.1,33.3 6.9,7.4 18.3,9.3 35.1,5.9 11.5,-2.3 20.2,-7.1 28.0,-15.4 10.3,-11.0 15.5,-25.1 13.7,-37.8 -2.6,-19.1 -21.1,-50.7 -40.9,-69.6 -13.7,-13.1 -31.0,-23.7 -59.3,-36.2 -22.3,-9.8 -39.4,-15.8 -61.9,-21.4 -7.7,-1.9 -14.3,-3.5 -14.7,-3.5 -0.3,0 -0.9,2.5 -1.4,5.7 -1.7,12.3 -2.4,32.4 -2.4,70.9 -0.0,33.2 0.2,44.8 1.5,68.3 0.8,15.5 2.0,37.0 2.6,47.7 0.5,10.7 1.3,21.5 1.7,24.0 1.2,8.2 4.1,17.6 7.5,24.7 3.9,8.2 14.1,23.7 21.5,32.6 8.0,9.6 20.7,22.3 27.2,27.3 17.0,12.8 42.4,22.2 62.4,23.1 32.6,1.4 55.9,-9.9 67.5,-33.1 2.5,-4.9 5.4,-12.3 10.2,-26.0 0.3,-1.0 0.9,-1.9 1.2,-1.9 0.9,0 6.1,16.7 6.6,21.2 0.9,8.8 -2.5,22.3 -8.6,32.7 -5.5,9.5 -14.1,17.5 -27.3,25.5 -10.0,6.0 -22.9,10.1 -38.1,12.1 -9.5,1.2 -41.2,1.8 -50.9,1.0 z m 131.4,-920.7 c -0.2,-0.3 -0.7,-0.6 -1.1,-0.6 -0.3,0 -0.5,0.3 -0.2,0.6 0.2,0.3 0.7,0.6 1.1,0.6 0.3,0 0.5,-0.3 0.2,-0.6 z M 758.8,1104.8 c -10.4,-1.6 -29.8,-8.0 -37.3,-12.3 -11.8,-6.7 -23.6,-17.5 -37.0,-33.6 -8.9,-10.7 -12.2,-15.8 -18.1,-27.8 -8.1,-16.5 -13.7,-32.4 -19.8,-56.7 -7.4,-29.6 -9.7,-62.3 -9.1,-128.5 0.5,-58.6 3.5,-86.3 13.1,-121.2 8.6,-31.5 18.6,-58.6 27.8,-75.1 16.8,-30.3 48.5,-55.2 76.9,-60.4 6.4,-1.1 33.6,-1.1 37.9,0.0 10.7,2.9 33.0,13.1 42.2,19.3 10.2,6.8 21.3,19.1 32.5,36.3 5.4,8.3 10.0,17.7 16.0,33.2 9.4,24.2 13.4,38.8 18.0,67.3 3.5,21.3 4.3,31.3 5.6,64.4 2.2,58.2 1.0,85.1 -5.6,129.8 -4.6,30.9 -10.4,54.0 -19.5,77.1 -8.6,21.8 -17.1,35.5 -35.1,56.4 -9.1,10.6 -18.7,18.1 -31.3,24.4 -7.5,3.8 -13.3,5.6 -20.5,6.5 -8.0,0.9 -32.0,1.4 -36.7,0.7 z m 27.1,-37.0 c 8.8,-2.7 20.2,-12.3 27.0,-22.8 8.5,-13.2 13.7,-29.5 18.0,-56.5 1.7,-10.7 4.4,-33.8 5.2,-43.6 2.0,-26.5 1.3,-173.8 -0.9,-196.8 -2.1,-21.3 -6.0,-52.8 -7.6,-62.4 -4.0,-23.4 -12.0,-42.1 -22.4,-52.6 -7.5,-7.5 -19.7,-13.8 -26.9,-13.8 -11.1,0.0 -25.3,5.5 -33.1,12.8 -10.6,9.9 -15.6,20.1 -24.8,50.9 -5.0,16.7 -7.8,44.8 -10.8,107.3 -0.4,8.8 -0.8,17.2 -0.9,18.8 -0.3,4.6 0.9,101.6 1.7,124.0 0.3,11.5 1.1,25.4 1.7,31.0 1.1,12.2 5.4,40.9 7.2,49.3 3.0,13.8 7.6,25.0 13.9,33.6 4.4,6.0 17.2,18.2 21.2,20.2 6.1,2.9 22.7,3.3 31.5,0.6 z m 610.4,31.4 c -8.8,-0.7 -20.5,-2.8 -27.2,-4.9 -24.6,-7.6 -64.2,-36.1 -79.1,-56.9 -14.2,-19.9 -23.3,-44.7 -26.3,-71.5 -1.8,-16.8 0.3,-35.7 5.9,-51.8 5.7,-16.5 11.8,-24.6 24.9,-33.0 15.7,-10.1 24.2,-12.5 45.1,-12.6 12.0,-0.0 14.2,0.1 19.6,1.5 18.8,4.9 44.6,18.5 57.2,30.1 8.8,8.1 13.8,17.1 17.3,31.1 2.1,8.7 2.1,22.0 -0.0,29.7 -3.4,11.9 -10.0,22.9 -18.3,30.6 -4.8,4.5 -8.4,6.5 -12.6,7.1 -4.2,0.5 -7.7,-0.5 -14.3,-4.8 -6.5,-4.2 -6.5,-4.0 0.6,-6.3 15.8,-5.0 21.3,-11.3 23.0,-26.5 1.5,-13.5 -0.9,-20.8 -10.0,-30.0 -6.5,-6.5 -14.0,-11.2 -22.3,-14.0 -5.0,-1.6 -6.5,-1.8 -16.3,-1.8 -18.8,-0.0 -31.4,3.9 -40.4,12.8 -5.0,4.9 -7.3,9.5 -8.7,17.2 -2.9,16.8 -3.1,44.4 -0.4,54.8 1.8,7.0 7.2,18.1 11.7,24.0 4.4,5.8 12.5,13.4 18.2,17.3 13.1,8.6 40.0,19.3 55.6,22.1 18.7,3.2 46.9,-1.5 67.3,-11.5 8.7,-4.2 14.4,-8.5 22.4,-16.9 15.8,-16.5 21.1,-31.5 21.1,-59.7 0,-23.4 -3.1,-39.0 -10.4,-51.8 -5.3,-9.4 -19.1,-24.8 -34.8,-39.2 -14.9,-13.6 -25.3,-20.6 -55.3,-36.6 -26.5,-14.2 -52.7,-30.5 -66.7,-41.6 -18.9,-14.9 -35.2,-34.2 -42.7,-50.3 -4.4,-9.5 -8.6,-23.4 -10.8,-35.7 -2.1,-12.0 -2.0,-33.8 0.2,-43.4 4.7,-20.2 21.1,-48.8 36.7,-63.8 7.7,-7.5 13.7,-11.2 25.0,-15.8 15.3,-6.2 26.0,-8.8 41.2,-10.2 26.4,-2.4 64.8,6.5 108.1,25.1 l 9.7,4.1 6.4,-6.1 c 10.6,-10.2 17.1,-12.4 32.4,-11.0 4.8,0.4 8.8,1.0 8.8,1.2 0,0.2 -2.3,1.6 -5.2,3.1 -5.7,2.9 -16.2,11.3 -21.5,17.2 -7.2,8.0 -10.3,14.3 -13.2,27.0 -3.6,15.9 -4.5,26.6 -5.1,60.2 -0.4,23.9 -0.8,32.7 -1.6,37.2 -2.4,13.0 -5.6,19.9 -10.4,22.9 -1.9,1.2 -4.1,1.7 -8.9,2.0 -3.5,0.2 -6.6,0.2 -7.0,-0.0 -0.3,-0.3 0.8,-3.5 2.9,-8.0 5.6,-11.7 6.6,-16.2 6.6,-31.2 0.0,-16.8 -2.1,-29.4 -8.2,-47.1 -9.0,-26.2 -23.1,-42.4 -47.3,-54.5 -17.4,-8.6 -38.9,-10.8 -58.1,-5.9 -11.1,2.8 -22.6,10.3 -33.1,21.6 -15.8,17.0 -18.1,35.7 -7.3,60.4 8.7,20.1 20.1,28.6 76.1,56.8 26.4,13.2 32.4,16.6 44.1,24.2 25.3,16.7 52.6,39.1 69.9,57.5 28.1,29.8 37.0,44.5 44.3,72.8 6.2,24.1 6.2,49.6 -0.0,73.8 -3.7,14.6 -8.5,25.2 -17.8,39.4 -15.9,24.3 -34.3,40.5 -62.0,54.4 -21.6,10.8 -41.6,15.0 -74.1,15.5 -9.2,0.1 -20.1,-0.0 -24.3,-0.3 z m 347.4,-0.9 c -0.4,-0.4 -45.2,-7.2 -55.7,-8.4 -21.1,-2.4 -63.1,-2.0 -96.1,1.0 -7.4,0.6 -13.6,1.1 -13.8,1.0 -0.1,-0.0 2.6,-2.6 6.2,-5.6 18.9,-15.9 24.3,-23.2 29.4,-40.0 2.8,-9.3 4.9,-18.6 6.8,-30.5 1.3,-8.1 1.4,-13.9 2.1,-83.9 0.3,-41.4 0.7,-91.9 0.7,-112.2 0.0,-48.4 -1.4,-156.3 -2.2,-165.0 -0.8,-9.2 -2.1,-11.6 -13.6,-25.5 -5.2,-6.2 -10.9,-13.4 -12.6,-15.8 -4.2,-5.9 -3.6,-6.4 5.2,-4.4 14.8,3.2 15.2,3.2 50.3,3.2 38.2,-0.0 36.0,0.1 78.2,-7.3 10.6,-1.9 20.1,-3.4 21.1,-3.4 h 1.8 l -1.6,1.2 c -0.9,0.7 -5.4,3.4 -10.0,6.0 -10.0,5.7 -17.6,10.7 -21.4,14.1 -6.4,5.8 -11.9,15.8 -14.6,26.4 -1.4,5.7 -1.5,7.6 -1.5,33.6 -0.0,15.1 0.4,55.6 0.9,89.9 1.1,70.0 0.7,137.0 -0.9,183.6 -1.6,43.1 -1.6,69.3 -0.0,78.0 1.6,9.1 4.4,17.4 8.8,26.2 7.3,14.7 13.2,21.3 26.8,30.5 4.1,2.7 8.3,5.6 9.2,6.3 l 1.6,1.3 h -2.4 c -1.3,0 -2.5,-0.1 -2.7,-0.2 z m -5.2,-492.4 c 0.2,-0.3 -0.2,-0.4 -1.0,-0.2 -1.6,0.4 -1.8,0.8 -0.3,0.8 0.5,0 1.1,-0.2 1.3,-0.6 z M 1082.1,1083.3 c -6.5,-0.2 -14.9,-1.0 -18.7,-1.6 -14.3,-2.3 -33.3,-7.8 -46.4,-13.4 -16.6,-7.0 -24.9,-13.5 -36.9,-28.4 -11.0,-13.7 -15.3,-21.9 -17.1,-32.5 -1.2,-7.0 -1.1,-22.7 0.4,-74.0 0.5,-18.0 0.5,-47.8 0.0,-105.9 -0.3,-44.4 -0.7,-99.2 -0.7,-121.6 -0.0,-45.1 -0.5,-56.2 -2.7,-62.2 -2.6,-7.0 -11.8,-18.1 -19.8,-23.8 -6.0,-4.2 -19.2,-11.4 -21.0,-11.4 -1.7,0 -2.2,-1.8 -0.6,-2.5 0.5,-0.2 4.2,0.1 8.3,0.7 21.3,3.1 60.0,5.6 80.2,5.0 17.1,-0.4 26.0,-1.7 43.5,-6.2 20.2,-5.2 18.2,-4.8 17.2,-3.0 -2.1,4.0 -10.1,15.5 -13.8,19.7 -5.6,6.5 -7.2,9.3 -9.3,16.3 -4.8,16.8 -5.6,35.9 -4.6,112.4 0.4,32.2 0.9,67.3 1.1,78.0 0.2,10.7 0.0,45.8 -0.4,78.1 -0.9,63.5 -0.7,68.8 2.5,85.0 3.2,16.1 6.3,22.1 16.7,32.7 6.1,6.2 7.7,7.4 13.5,10.2 15.6,7.4 36.7,8.8 56.8,3.6 18.1,-4.7 26.7,-11.1 34.0,-25.4 5.7,-11.1 8.1,-21.8 9.4,-42.1 1.0,-17.2 1.8,-296.1 0.8,-303.5 -2.7,-20.1 -9.0,-29.8 -31.6,-49.3 l -11.9,-10.2 4.8,-0.2 c 5.4,-0.2 18.9,0.7 30.6,2.3 16.0,2.1 31.0,3.6 40.0,4.1 16.4,0.8 31.0,-1.9 62.3,-11.8 9.1,-2.9 17.1,-5.2 17.6,-5.2 0.5,0 -4.1,5.4 -10.4,12.0 -23.3,24.6 -26.9,30.0 -31.9,48.8 -6.7,25.4 -7.6,45.1 -8.0,168.7 -0.3,100.1 -0.9,139.6 -2.6,155.1 -2.7,25.2 -8.8,43.0 -19.6,57.4 -6.3,8.4 -17.3,19.7 -24.1,24.8 -10.1,7.6 -26.6,14.2 -42.0,16.9 -13.1,2.2 -44.5,3.4 -65.4,2.5 z M 931.0,609.5 c -0.2,-0.2 -0.8,-0.2 -1.3,-0.0 -0.5,0.2 -0.3,0.3 0.4,0.4 0.7,0.0 1.1,-0.1 0.9,-0.3 z m -27.6,-29.2 c -0.9,-0.1 -4.4,-0.6 -7.8,-1.0 -3.3,-0.4 -6.2,-1.0 -6.4,-1.3 -0.8,-1.4 10.6,-5.5 20.4,-7.2 5.1,-0.8 6.6,-0.8 12.2,0.0 3.5,0.5 7.7,1.0 9.4,1.0 4.1,0.0 25.7,-6.2 35.2,-10.2 16.0,-6.7 50.4,-25.3 64.8,-35.1 1.1,-0.7 5.1,-3.3 8.8,-5.7 l 6.7,-4.2 -13.2,-6.7 -13.2,-6.7 -8.8,5.7 c -8.9,5.8 -36.0,21.8 -50.8,30.0 -42.5,23.4 -87.4,32.5 -119.2,24.3 -18.6,-4.8 -40.3,-15.6 -51.7,-25.9 -11.2,-10.0 -19.4,-26.2 -19.4,-38.3 0,-6.6 1.3,-11.5 4.8,-17.4 10.1,-17.0 27.6,-27.4 54.0,-32.1 11.2,-2.0 31.2,-2.2 37.9,-0.4 9.8,2.6 15.4,6.9 17.7,13.5 2.1,6.3 0.6,11.9 -4.7,17.4 -4.7,4.9 -17.5,12.4 -23.9,14.1 -6.1,1.6 -22.5,2.7 -22.5,1.5 0,-0.3 2.9,-2.5 6.6,-4.7 11.8,-7.1 15.6,-11.7 15.6,-18.8 -0.0,-9.0 -7.8,-15.9 -19.5,-17.3 -4.5,-0.5 -6.9,0.3 -14.1,4.9 -12.4,8.0 -21.2,20.7 -22.5,32.2 -1.1,11.3 6.9,28.5 18.6,39.3 14.2,13.2 43.0,26.1 62.3,27.9 8.3,0.7 21.3,-3.0 39.7,-11.8 13.5,-6.4 50.2,-27.5 64.7,-37.3 5.9,-3.9 9.4,-6.6 19.3,-14.6 1.3,-1.0 0.6,-1.6 -15.2,-12.5 -35.8,-24.6 -47.3,-34.0 -83.3,-68.2 -36.8,-34.9 -65.0,-56.3 -116.9,-88.6 -26.3,-16.3 -35.8,-21.8 -53.6,-30.7 -22.6,-11.3 -37.7,-17.3 -65.5,-26.1 -18.0,-5.6 -27.4,-8.0 -40.4,-10.3 -18.5,-3.2 -44.2,-2.4 -61.3,1.9 -24.2,6.1 -42.0,20.0 -56.5,44.2 -15.4,25.6 -19.6,52.1 -13.3,83.2 2.1,10.8 4.3,17.2 8.6,26.1 6.2,12.8 11.1,17.5 26.3,25.2 15.0,7.6 40.9,18.5 53.8,22.7 27.1,8.7 46.8,12.5 64.5,12.5 36.1,-0.1 54.5,-9.3 65.5,-32.6 7.1,-15.1 7.7,-31.2 1.6,-47.1 -2.8,-7.5 -4.8,-9.5 -13.6,-14.0 -16.4,-8.4 -29.8,-11.2 -41.3,-8.5 -10.3,2.4 -21.6,10.3 -25.3,17.8 -1.8,3.7 -2.4,9.2 -1.1,11.5 0.3,0.6 6.4,4.7 13.6,9.1 13.5,8.3 20.5,14.0 26.0,21.0 3.2,4.2 3.6,5.7 1.4,5.1 -2.2,-0.5 -28.7,-17.0 -35.1,-21.9 -7.8,-5.8 -19.1,-17.2 -23.3,-23.6 -3.4,-5.1 -5.6,-10.6 -5.6,-14.2 0,-10.0 13.7,-22.7 28.3,-26.1 6.7,-1.5 18.1,-0.9 26.1,1.3 18.2,5.4 35.4,15.9 50.7,31.0 16.3,16.2 23.8,30.7 25.3,49.5 1.2,15.4 -5.8,34.1 -17.3,45.6 -10.7,10.7 -25.0,15.5 -50.2,16.8 -18.0,0.9 -39.1,-2.6 -67.1,-11.3 -15.6,-4.8 -50.8,-19.5 -64.2,-26.8 -24.2,-13.2 -47.9,-36.6 -59.1,-58.3 -14.1,-27.4 -17.2,-62.8 -8.0,-91.0 7.1,-21.8 24.2,-45.7 40.4,-56.4 17.4,-11.6 41.4,-17.1 70.2,-16.1 20.4,0.6 37.2,4.3 71.4,15.7 45.3,15.0 71.2,28.2 132.4,67.4 43.7,28.0 76.8,54.0 115.5,90.7 19.2,18.2 25.6,24.0 34.0,30.7 13.6,10.8 14.4,11.3 7.5,4.0 -18.8,-19.9 -39.6,-47.4 -46.4,-61.5 -8.0,-16.5 -5.8,-30.8 6.6,-43.3 9.6,-9.6 16.8,-11.5 25.0,-6.6 8.9,5.4 20.8,17.5 25.1,25.7 2.5,4.7 10.1,22.1 10.1,23.1 0,2.3 -9.1,-4.3 -15.9,-11.7 -3.7,-4.0 -5.4,-6.6 -7.6,-11.6 -3.1,-7.0 -3.3,-7.1 -7.9,-4.1 -3.9,2.5 -7.9,6.3 -11.2,10.6 -9.9,13.1 -9.3,26.1 2.0,43.6 5.8,9.0 14.6,20.5 21.8,28.9 9.6,11.1 28.9,29.7 37.2,35.8 6.3,4.7 19.2,12.5 22.9,13.9 2.3,0.8 35.6,-30.5 46.1,-43.6 10.4,-12.9 18.4,-26.4 31.6,-53.5 15.7,-32.1 24.4,-57.5 29.0,-84.6 1.5,-9.1 1.5,-23.4 0.0,-29.8 -3.4,-14.5 -14.7,-25.2 -30.2,-28.7 -10.4,-2.3 -25.4,0.3 -38.4,6.8 -13.3,6.6 -22.2,17.7 -25.8,32.0 -1.8,7.5 -2.6,24.4 -1.3,31.5 1.4,7.9 6.6,20.8 9.0,22.3 0.3,0.1 4.1,-5.1 8.4,-11.8 l 7.9,-12.2 4.3,-1.3 c 9.5,-2.9 24.5,-4.1 24.5,-2.0 0,1.5 -17.7,27.4 -21.1,30.9 -6.5,6.5 -15.0,9.6 -29.7,10.8 -9.4,0.7 -14.4,0.0 -18.2,-2.5 -5.7,-3.9 -12.8,-17.9 -14.8,-29.5 -1.8,-10.2 -0.7,-25.9 2.5,-36.2 7.2,-22.7 29.0,-36.1 70.8,-43.5 47.5,-8.3 73.2,0.2 81.5,27.1 1.7,5.7 1.7,24.9 0,34.5 -3.3,18.1 -9.0,37.4 -16.2,55.0 -8.4,20.6 -22.2,48.2 -31.7,63.5 -12.3,19.8 -29.2,37.7 -62.6,66.3 -4.5,3.8 -7.9,7.2 -7.6,7.4 0.7,0.6 26.8,12.4 27.5,12.4 0.3,0 6.1,-4.0 12.9,-8.9 12.6,-9.1 23.6,-16.8 55.8,-38.9 38.2,-26.2 55.9,-42.1 74.3,-66.6 13.8,-18.4 17.7,-30.8 14.5,-46.0 -1.6,-7.6 -6.3,-18.5 -7.9,-18.5 -0.2,0 -4.2,3.5 -8.8,7.9 -9.0,8.6 -10.9,9.6 -22.1,12.3 -5.8,1.3 -13.6,1.8 -13.6,0.7 0,-0.7 17.2,-17.4 21.9,-21.2 9.8,-7.8 34.8,-14.8 44.1,-12.3 9.0,2.4 16.3,17.3 16.4,33.4 0.0,8.6 -1.2,13.9 -5.1,21.9 -2.4,5.0 -13.8,21.0 -18.6,26.4 -2.2,2.5 -2.1,2.4 10.4,-6.6 23.9,-17.2 70.1,-45.3 105.4,-64.2 52.3,-28.0 78.3,-39.3 107.6,-47.1 23.5,-6.2 47.5,-9.0 67.1,-7.6 22.9,1.5 55.0,8.7 75.0,16.8 24.4,9.8 41.4,20.8 53.0,34.2 6.0,6.9 9.7,13.1 13.6,22.7 6.7,16.7 9.6,31.0 9.6,48.7 0,11.8 -0.0,12.3 -2.1,18.3 -3.9,11.2 -8.6,17.4 -19.9,26.4 -15.8,12.6 -45.5,30.3 -78.4,46.8 -22.2,11.1 -47.2,19.2 -70.8,22.8 -13.3,2.0 -39.2,2.2 -51.5,0.3 -23.8,-3.6 -44.7,-11.1 -53.5,-19.1 -10.6,-9.6 -3.4,-24.6 16.5,-34.5 22.0,-10.9 58.4,-17.7 89.7,-16.9 11.4,0.2 15.2,1.2 15.2,4.0 0,1.8 -4.0,5.2 -9.6,7.9 -7.8,3.9 -39.1,16.2 -45.4,17.8 -6.4,1.6 -16.7,2.6 -16.7,1.6 0,-1.1 2.9,-2.5 20.9,-9.7 17.8,-7.2 21.0,-8.8 21.4,-10.8 0.3,-1.6 -3.1,-2.1 -14.4,-2.0 -10.8,0.1 -24.4,1.5 -31.0,3.2 -10.3,2.7 -19.8,11.0 -22.1,19.3 -2.8,10.6 10.4,20.0 38.0,27.0 15.4,3.8 26.5,5.1 41.8,4.6 20.9,-0.6 30.2,-3.6 59.7,-19.2 30.4,-16.1 48.8,-27.4 62.4,-38.2 8.2,-6.5 11.8,-10.6 15.4,-17.5 4.6,-8.9 5.2,-11.9 5.2,-25.7 0,-12.9 -0.5,-17.6 -3.8,-30.6 -6.1,-24.7 -16.7,-40.9 -35.9,-54.8 -7.6,-5.5 -27.6,-15.6 -39.6,-20.0 -11.6,-4.3 -32.0,-9.4 -48.7,-12.3 -11.8,-2.0 -14.6,-2.2 -26.4,-2.2 -29.2,0.0 -47.0,6.2 -102.4,35.2 -46.8,24.6 -95.2,53.8 -123.6,74.6 -9.2,6.7 -44.4,30.4 -67.0,45.0 -22.9,14.8 -51.5,34.0 -57.2,38.4 -20.5,15.9 -31.7,23.8 -48.6,33.9 -5.0,3.0 -8.9,5.6 -8.6,5.8 1.5,0.9 24.7,10.5 32.7,13.6 16.2,6.1 29.6,9.8 58.8,16.0 38.8,8.2 61.0,11.8 88.4,14.4 6.6,0.6 12.8,1.4 13.5,1.8 4.7,2.4 15.2,12.6 18.8,18.1 l 1.2,1.9 -2.3,-0.0 c -3.2,-0.0 -22.9,-1.8 -33.0,-3.1 -25.8,-3.2 -77.8,-13.6 -103.2,-20.6 -16.8,-4.6 -39.9,-13.7 -76.2,-30.0 l -11.4,-5.1 -6.3,3.9 c -20.6,12.8 -53.9,30.1 -70.7,36.7 -14.9,5.8 -42.6,13.9 -56.1,16.4 -5.8,1.0 -19.6,1.9 -22.6,1.4 z m 216.0,-67.9 c 0,-1.1 6.9,-4.0 14.2,-5.8 3.6,-0.9 11.4,-2.1 17.3,-2.8 12.1,-1.2 17.2,-2.7 27.7,-8.0 14.7,-7.4 28.4,-16.2 55.7,-35.9 55.2,-39.9 79.6,-52.9 124.6,-66.5 21.8,-6.6 60.3,-15.2 82.7,-18.4 12.0,-1.7 36.2,-1.7 43.7,-0.0 10.8,2.5 23.7,10.6 27.9,17.5 1.7,2.8 2.1,4.0 2.0,7.6 -0.0,4.9 -1.4,7.9 -4.7,10.4 -5.4,4.1 -20.6,8.5 -32.3,9.2 -10.1,0.6 -9.6,-1.0 1.4,-4.6 4.1,-1.3 4.9,-1.8 5.7,-3.9 3.4,-8.1 -2.7,-16.7 -17.0,-23.9 -7.4,-3.7 -13.7,-5.0 -24.4,-5.1 -10.3,-0.0 -16.8,0.8 -38.3,5.1 -39.7,8.0 -66.9,17.8 -92.9,33.5 -10.5,6.3 -36.5,23.9 -52.4,35.5 -27.7,20.1 -42.3,29.4 -60.5,38.2 -21.1,10.2 -38.4,15.0 -64.0,17.6 -12.1,1.2 -16.4,1.3 -16.4,0.3 z"/></svg></div>
-<script src="version.js?v0.6.13"></script>
-<script src="legal.js?v0.6.13"></script>
-<script src="tagrules.js?v0.6.13"></script>
-<script src="badwords.js?v0.6.13"></script>
+<script src="version.js?v0.6.14"></script>
+<script src="legal.js?v0.6.14"></script>
+<script src="tagrules.js?v0.6.14"></script>
+<script src="badwords.js?v0.6.14"></script>
 <script src="https://www.gstatic.com/firebasejs/10.14.1/firebase-app-compat.js"></script>
 <script src="https://www.gstatic.com/firebasejs/10.14.1/firebase-auth-compat.js"></script>
 <script src="https://www.gstatic.com/firebasejs/10.14.1/firebase-firestore-compat.js"></script>
-<script src="firebase-config.js?v0.6.13"></script>
-<script src="data.js?v0.6.13"></script>
-<script src="app.js?v0.6.13"></script>
-<script src="shine.js?v0.6.13"></script>
+<script src="firebase-config.js?v0.6.14"></script>
+<script src="data.js?v0.6.14"></script>
+<script src="app.js?v0.6.14"></script>
+<script src="shine.js?v0.6.14"></script>
 </body>
 </html>

diff --git a/app.js b/app.js
@@ -1,4 +1,4 @@
-/*! StageMate v0.6.13 · Build 92 · 2026-11-27 */
+/*! StageMate v0.6.14 · Build 93 · 2026-11-27 */
 /* StageMate – App-Logik (Oberfläche, Register, Rechte) */
   // Version, Build und Changelog kommen aus js/version.js
   document.querySelectorAll('[data-app-version]').forEach(n => { n.textContent = APP_VERSION; n.title = `${APP_PHASE} · Build ${APP_BUILD} · ${APP_BUILD_DATE}`; });
@@ -25,7 +25,8 @@
   REGISTERS.forEach(r => PAGE_TITLES[r.id] = r.title);
 
   const logo = document.getElementById('logoTpl');
-  document.querySelectorAll('.logo-slot').forEach(s => s.replaceWith(logo.content.cloneNode(true)));
+  document.querySelectorAll('.logo-slot').forEach((s, i) => { const f = logo.content.cloneNode(true), g = f.querySelector('linearGradient');
+    if (g) { g.id = 'smgSlot' + i; f.querySelectorAll('[fill="url(#smgLogo)"]').forEach(x => x.setAttribute('fill', `url(#smgSlot${i})`)); } s.replaceWith(f); });
 
   const $ = id => document.getElementById(id);
   const ls = {
@@ -4277,7 +4278,10 @@
 
 
   // ----- Bandlogo (Admin und Organisation bearbeiten, alle sehen es) -----
-  const defaultLogo = () => document.getElementById('logoTpl').content.cloneNode(true);
+  let logoSeq = 0;
+  // Jede Kopie bekommt eine eigene Verlaufs-ID (sonst bleibt das SM in ausgeblendeten Bereichen ohne Farbe)
+  const defaultLogo = () => { const f = document.getElementById('logoTpl').content.cloneNode(true), id = 'smgLogo' + (++logoSeq);
+    const g = f.querySelector('linearGradient'); if (g) { g.id = id; f.querySelectorAll('[fill="url(#smgLogo)"]').forEach(x => x.setAttribute('fill', `url(#${id})`)); } return f; };
   function logoNode(src) {
     const img = el('img'); img.src = src; img.alt = 'Bandlogo'; return img;
   }

diff --git a/version.js b/version.js
@@ -1,16 +1,19 @@
-/*! StageMate v0.6.13 · Build 92 · 2026-11-27 */
+/*! StageMate v0.6.14 · Build 93 · 2026-11-27 */
 /* StageMate – Version, Build und Changelog
  * Wird von bump.sh automatisch angepasst (APP_VERSION, APP_BUILD, APP_BUILD_DATE).
  * Versionsregel: kleine Änderung = letzte Zahl +1, grössere Änderung = mittlere Zahl +1,
  * die erste Zahl bestimmt Housi.
  */
-const APP_VERSION = 'v0.6.13';
-const APP_BUILD = 92;
+const APP_VERSION = 'v0.6.14';
+const APP_BUILD = 93;
 const APP_BUILD_DATE = '2026-11-27';
 const APP_PHASE = 'Alpha';
 
 // Neueste Version zuerst. Typen: neu | besser | fix | intern
 const APP_CHANGELOG = [
+  { version: 'v0.6.14', date: '2026-11-27', items: [
+    { type: 'besser', text: 'Icon und Logo „SM“ bunt: derselbe Farbverlauf wie der Schriftzug, auf dunklem Grund (Browser-Tab, Handy-Startbildschirm, Logo in der App).' }
+  ] },
   { version: 'v0.6.13', date: '2026-11-27', items: [
     { type: 'besser', text: 'Schriftzug „StageMate“ bunt: Farbverlauf aus den Bereichsfarben (Bernstein, Pink, Violett, Blau, Petrol) auf der Anmeldeseite und im Startbildschirm.' }
   ] },

diff --git a/badwords.js b/badwords.js
@@ -1,4 +1,4 @@
-/*! StageMate v0.6.13 · Build 92 · 2026-11-27 */
+/*! StageMate v0.6.14 · Build 93 · 2026-11-27 */
 /* StageMate – gesperrte Wörter für Nicknames (und Bandnamen)
  * Diese Datei darfst du selbst anpassen (z.B. direkt auf GitHub bearbeiten).
  * Alles in Kleinbuchstaben eintragen. Gross-/Kleinschreibung, Umlaute und

diff --git a/legal.js b/legal.js
@@ -1,4 +1,4 @@
-/*! StageMate v0.6.13 · Build 92 · 2026-11-27 */
+/*! StageMate v0.6.14 · Build 93 · 2026-11-27 */
 /* StageMate – Nutzungsbedingungen und Datenschutzerklärung
  * Vorlage, keine Rechtsberatung. Bei Änderungen LEGAL_VERSION anpassen:
  * dann müssen alle Benutzer die neue Fassung erneut akzeptieren.

diff --git a/firebase-config.js b/firebase-config.js
@@ -1,4 +1,4 @@
-/*! StageMate v0.6.13 · Build 92 · 2026-11-27 */
+/*! StageMate v0.6.14 · Build 93 · 2026-11-27 */
 /* StageMate Web – Verbindung zu Firebase (Projekt stagemate-d0a66).
  * Diese Werte sind nicht geheim; geschützt werden die Daten durch die Firestore-Regeln. */
 window.STAGEMATE_FIREBASE = {

diff --git a/shine.js b/shine.js
@@ -1,4 +1,4 @@
-/*! StageMate v0.6.13 · Build 92 · 2026-11-27 */
+/*! StageMate v0.6.14 · Build 93 · 2026-11-27 */
 /* Glänzende Display-Knöpfe (Regelwerk): Farbe je Aufgabe, ein gemeinsamer Lichtstreifen für alle Knöpfe einer Seite. */
 (function () {
   'use strict';

diff --git a/data.js b/data.js
@@ -1,4 +1,4 @@
-/*! StageMate v0.6.13 · Build 92 · 2026-11-27 */
+/*! StageMate v0.6.14 · Build 93 · 2026-11-27 */
 /* StageMate – Datenschicht
  * ------------------------------------------------------------
  * Die einzige Stelle, die weiss, WO die Daten liegen.

diff --git a/tagrules.js b/tagrules.js
@@ -1,4 +1,4 @@
-/*! StageMate v0.6.13 · Build 92 · 2026-11-27 */
+/*! StageMate v0.6.14 · Build 93 · 2026-11-27 */
 /* StageMate – Regeln für den automatischen Band-Tag
  * Diese Datei darfst du selbst anpassen (z.B. direkt auf GitHub bearbeiten).
  *

diff --git a/app.css b/app.css
@@ -1,4 +1,4 @@
-/*! StageMate v0.6.13 · Build 92 · 2026-11-27 */
+/*! StageMate v0.6.14 · Build 93 · 2026-11-27 */
   :root {
     --sidebar-w: 248px;
     --sidebar-w-collapsed: 68px;
